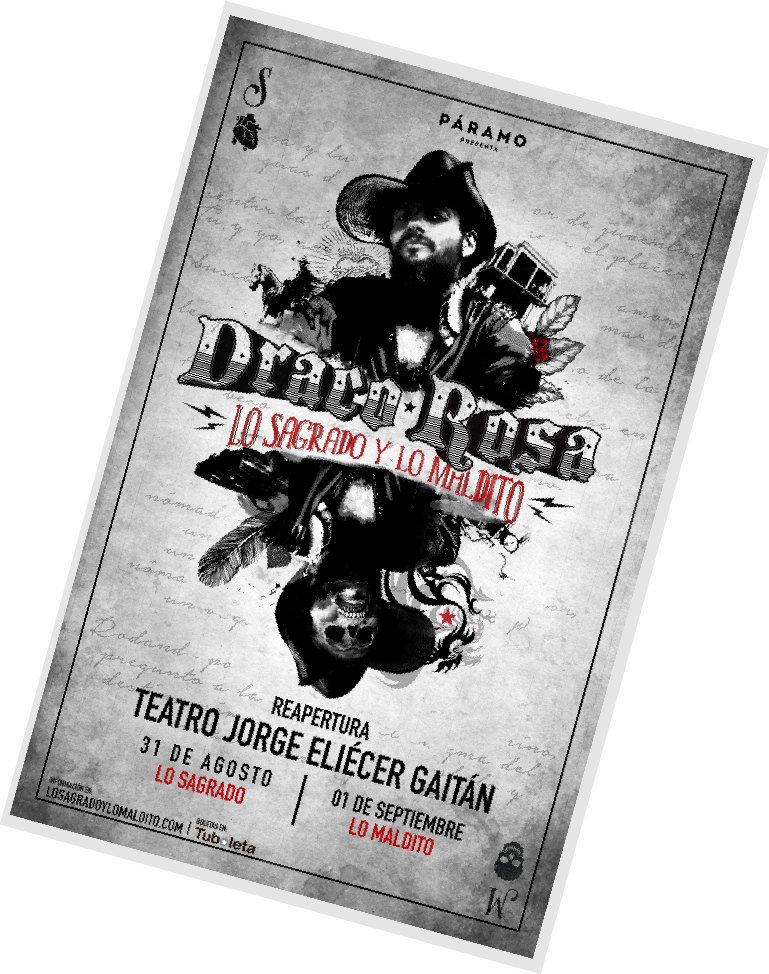
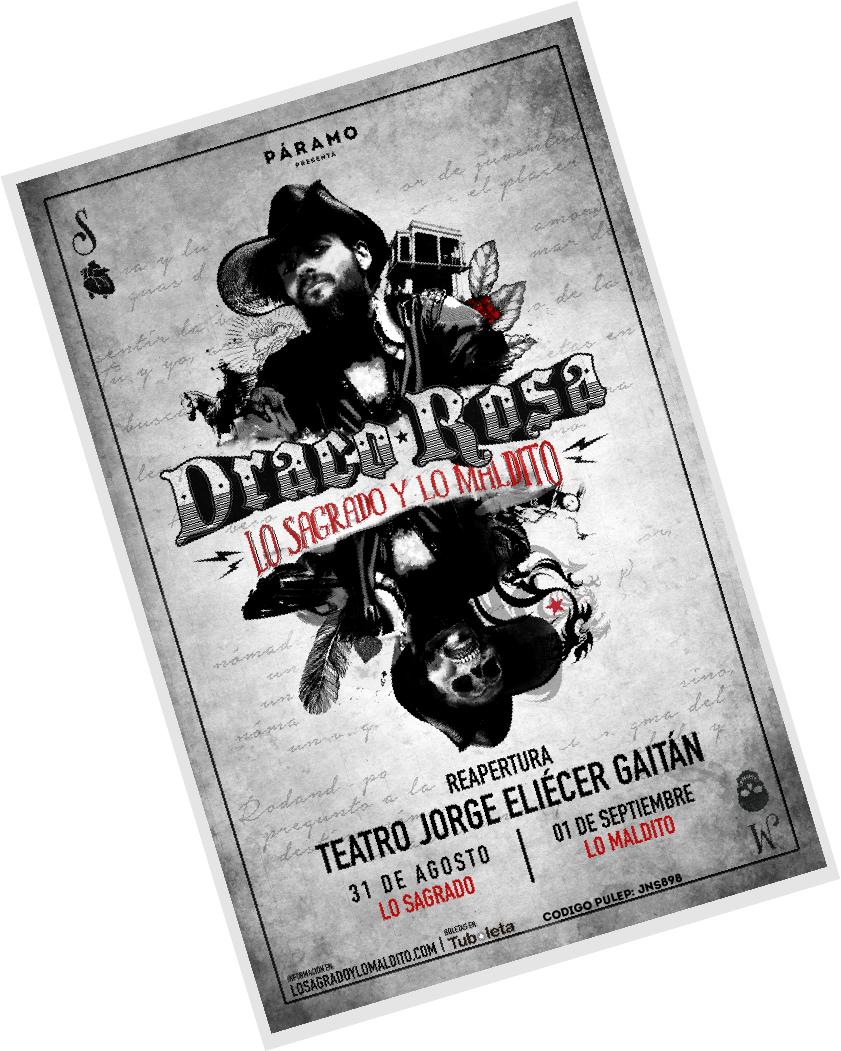
aas

diff --git a/codigos/static/css/home.css b/codigos/static/css/home.css
@@ -1,16 +1,13 @@
 body {
   background: url('../img/Fondo draco.png');
-  background-size: 100% 752%;
-  overflow-x: hidden;
+  background-size: 100% 100%;
 }
 
 form {
   background: url('../img/carta 2_1.png');
-  display: inline-block;
   background-size: 100%;
   background-repeat: no-repeat;
-  position: absolute;
-  left: 14%;
+  padding-bottom: 6em;
 }
 
 label {
@@ -19,7 +16,7 @@ label {
 
 #nombreGroup {
   margin-left: 2.5em;
-  margin-top: 12.5em;
+  padding-top: 16em;
 }
 
 .inputGroup {
@@ -30,24 +27,12 @@ button {
   margin-left: 5em !important;
 }
 
-#fixedR {
-  position: absolute;
-  left: 91% !important;
-}
-
 #poster {
-  position: absolute;
-  left: 19%;
-  width: 105%;
-  transform: rotate(-30deg);
+  width: 122%;
 }
 
 #tintero {
-  position: absolute;
-  top: 47000%;
-  left: -15%;
   width: 400%;
-  transform: rotate(-15deg);
 }
 
 .imgRS {
@@ -56,21 +41,19 @@ button {
 
 @media only screen and (max-width: 768px) {
   body {
-    background-size: 100% 110%;
-    background-position: center;
+    background-size: 110% 110%;
+    background-position: center center;
     background-attachment: fixed;
   }
 
   form {
-    display: grid;
     background-size: 100% 100%;
-    position: inherit;
-    left: 0%;
+    padding-bottom: 0em;
   }
 
   #nombreGroup {
+    padding-top: 10em;
     margin-left: 1.3em;
-    margin-top: 10em;
   }
 
   .inputGroup {
@@ -90,15 +73,8 @@ button {
     width: 6%;
   }
 
-  #fixedR {
-    left: -5% !important;
-    top: 0;
-  }
-
   #poster {
-    position: relative;
-    left: -1.5em;
-    width: 120%;
+    width: 100%;
   }
 
   #tintero {

diff --git a/codigos/templates/base.html b/codigos/templates/base.html
@@ -13,9 +13,9 @@
   <script src="https://stackpath.bootstrapcdn.com/bootstrap/4.1.0/js/bootstrap.min.js" integrity="sha384-uefMccjFJAIv6A+rW+L4AHf99KvxDjWSu1z9VI8SKNVmz4sk7buKt/6v9KI65qnm" crossorigin="anonymous"></script>
 </head>
 <body>
-  <div class="container-fluid m-4">
+  <div class="container-fluid m-4 fixed-top">
     <div class="row justify-content-end">
-      <div class="col-sm-1 mt-4 ml-3" id="fixedR">
+      <div class="col-sm-1 mt-1">
         <a href="https://www.facebook.com/paramopresenta/">
           <img src="{% static 'img/facebook circularyblanco.png' %}" alt="facebook" class="mb-1 imgRS">
         </a>
@@ -28,7 +28,7 @@
       </div>
     </div>
   </div>
-  <div class="container-fluid">
+  <div class="container-fluid mt-3 mb-3">
     <div class="row">
       <div class="col-sm-11">
         <div class="container-fluid">
@@ -38,9 +38,9 @@
       </div>
     </div>
   </div>
-  <div class="container-fluid m-4">
+  <div class="container-fluid m-4 fixed-bottom">
     <div class="row">
-      <div class="col-sm-1 mt-4 ml-3">
+      <div class="col-sm-1 mt-4">
         <img src="{% static 'img/tintero.png' %}" alt="tintero" id="tintero">
       </div>
     </div>

diff --git a/draco/settings.py b/draco/settings.py
@@ -29,6 +29,7 @@ ALLOWED_HOSTS = [
     'draco2-dev.us-west-2.elasticbeanstalk.com',
     'www.losagradoylomaldito.com',
     'localhost',
+    '127.0.0.1',
 ]
 
 
@@ -150,21 +151,21 @@ EMAIL_HOST_USER = "info@paramopresenta.com"
 EMAIL_HOST_PASSWORD = "bajofondo2004"
 EMAIL_USE_TLS = True
 
-AWS_STORAGE_BUCKET_NAME = 'dracobucket'
-AWS_S3_REGION_NAME = 'us-west-2'  # e.g. us-east-2
-AWS_ACCESS_KEY_ID = 'AKIAI5KFI6CY4R6CA25A'
-AWS_SECRET_ACCESS_KEY = 'Agj6PYR6jzzLPCqIGMrTdfMvXvzMzwXMvBKhj5x9'
+#AWS_STORAGE_BUCKET_NAME = 'dracobucket'
+#AWS_S3_REGION_NAME = 'us-west-2'  # e.g. us-east-2
+#AWS_ACCESS_KEY_ID = 'AKIAI5KFI6CY4R6CA25A'
+#AWS_SECRET_ACCESS_KEY = 'Agj6PYR6jzzLPCqIGMrTdfMvXvzMzwXMvBKhj5x9'
 
 # Tell django-storages the domain to use to refer to static files.
-AWS_S3_CUSTOM_DOMAIN = '%s.s3.amazonaws.com' % AWS_STORAGE_BUCKET_NAME
+#AWS_S3_CUSTOM_DOMAIN = '%s.s3.amazonaws.com' % AWS_STORAGE_BUCKET_NAME
 
-AWS_S3_OBJECT_PARAMETERS = {
-    'CacheControl': 'max-age=86400',
-}
-AWS_LOCATION = 'static'
+#AWS_S3_OBJECT_PARAMETERS = {
+#    'CacheControl': 'max-age=86400',
+#}
+#AWS_LOCATION = 'static'
 
-STATICFILES_DIRS = [
-    os.path.join(BASE_DIR, 'codigos/static'),
-]
-STATIC_URL = 'https://%s/%s/' % (AWS_S3_CUSTOM_DOMAIN, AWS_LOCATION)
-STATICFILES_STORAGE = 'storages.backends.s3boto3.S3Boto3Storage'
+#STATICFILES_DIRS = [
+#    os.path.join(BASE_DIR, 'codigos/static'),
+#]
+#STATIC_URL = 'https://%s/%s/' % (AWS_S3_CUSTOM_DOMAIN, AWS_LOCATION)
+#STATICFILES_STORAGE = 'storages.backends.s3boto3.S3Boto3Storage'
